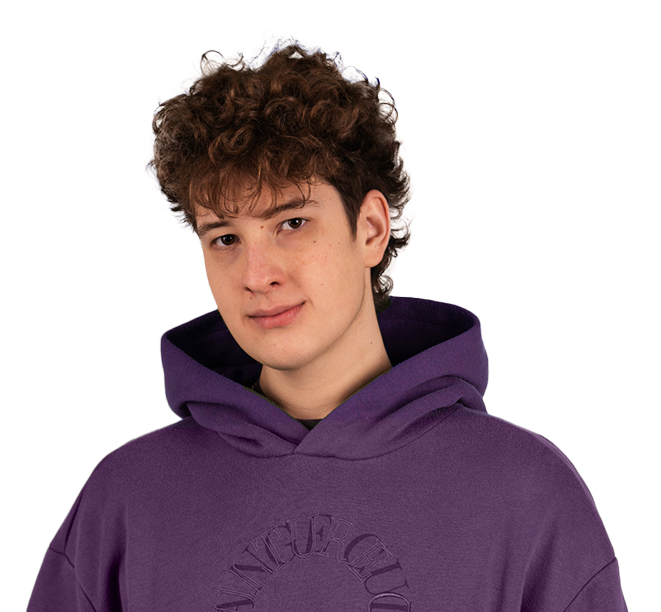
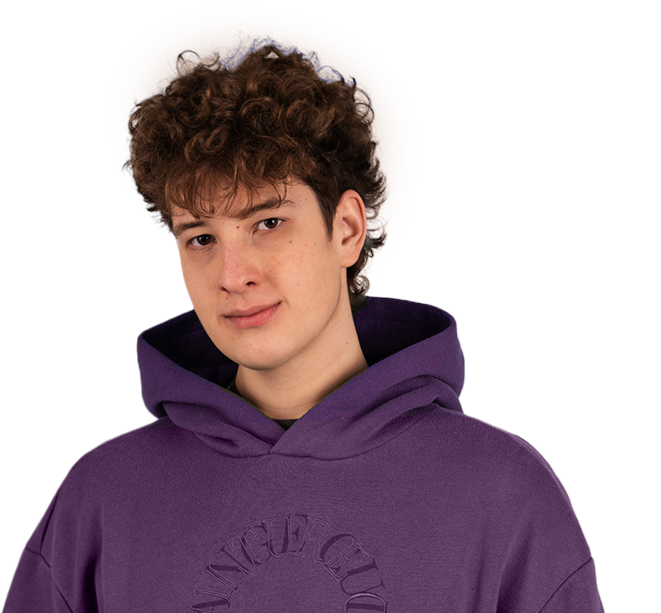
about me improvements and animation

diff --git a/components/about.js b/components/about.js
@@ -6,24 +6,13 @@ const About = () => {
       <div className={styles.left}>
         <div className={styles.heading}>About me</div>
         <div className={styles.text}>
-          Lorem ipsum dolor sit amet, consetetur sadipscing elitr, sed diam
-          nonumy eirmod tempor invidunt ut labore et dolore magna aliquyam erat,
-          sed diam voluptua. At vero eos et accusam et justo duo dolores et ea
-          rebum. Stet clita kasd gubergren, no sea takimata sanctus est Lorem
-          ipsum dolor sit amet. Lorem ipsum dolor sit amet, consetetur
-          sadipscing elitr, sed diam nonumy eirmod tempor invidunt ut labore et
-          dolore magna aliquyam erat, sed diam voluptua. At vero eos et accusam
-          et justo duo dolores et ea rebum. Stet clita kasd gubergren, no sea
-          takimata sanctus est Lorem ipsum dolor sit amet. Lorem ipsum dolor sit
-          amet, consetetur sadipscing elitr, sed diam nonumy eirmod tempor
-          invidunt ut labore et dolore magna aliquyam erat, sed diam voluptua.
-          At vero eos et accusam et justo duo dolores et ea rebum. Stet clita
-          kasd gubergren, no sea takimata sanctus est Lorem ipsum dolor sit
-          amet. Duis autem vel eum iriure dolor in hendrerit in vulputate velit
-          esse molestie consequat, vel illum dolore eu feugiat nulla facilisis
-          at vero eros et accumsan et iusto odio dignissim qui blandit praesent
-          luptatum zzril delenit augue duis dolore te feugait nulla facilisi.
-          Lorem ipsum dolor sit amet,
+          Hello! I'm a 17-year-old student currently studying at IT-HTL Ybbs. I
+          have a passion for turning my ideas into reality through coding. My
+          specialties include using JavaScript for web development, Adobe
+          products for design, and Flutter for mobile development. During my
+          free time, I also enjoy developing Unity games. I'm constantly
+          exploring new technologies and expanding my skill set, and I'm excited
+          to see where my passion for coding takes me in the future.
         </div>
       </div>
       <div className={styles.right}>

diff --git a/components/aboutMeImage.js b/components/aboutMeImage.js
@@ -1,17 +1,70 @@
+import { useEffect, useRef, useState } from "react";
 import styles from "@/styles/AboutMeImage.module.css";
 import Image from "next/image";
 
 const AboutMeImage = () => {
+  const [isVisible, setIsVisible] = useState(false);
+  const ref = useRef(null);
+
+  useEffect(() => {
+    const observer = new IntersectionObserver(
+      ([entry]) => {
+        if (entry.isIntersecting) {
+          setTimeout(() => {
+            setIsVisible(true);
+          }, 500);
+        }
+      },
+      {
+        rootMargin: "0px",
+        threshold: 0.5, // Change this value to adjust when the intersection is detected
+      }
+    );
+
+    if (ref.current) {
+      observer.observe(ref.current);
+    }
+
+    return () => {
+      if (ref.current) {
+        observer.unobserve(ref.current);
+      }
+    };
+  }, []);
+
   return (
     <>
       <div className={styles.main}>
         <Image
           src="/images/about-image-Hannes.png"
-          width="430"
-          height="400"
+          width="330"
+          height="300"
           className={styles.image}
-        ></Image>
-        <div className={styles.imageBackground}></div>
+        />
+        <div className={styles.imageBackground} />
+        <div className={styles.icons}>
+          <Image
+            src="/images/Laptop.png"
+            width="80"
+            height="80"
+            className={`${styles.icon} ${isVisible ? styles.icon0 : ""}`}
+            ref={ref}
+          />
+          <Image
+            src="/images/camera.png"
+            width="80"
+            height="80"
+            className={`${styles.icon} ${isVisible ? styles.icon1 : ""}`}
+            ref={ref}
+          />
+          <Image
+            src="/images/smartphone.png"
+            width="80"
+            height="80"
+            className={`${styles.icon} ${isVisible ? styles.icon2 : ""}`}
+            ref={ref}
+          />
+        </div>
       </div>
     </>
   );

diff --git a/styles/AboutMeImage.module.css b/styles/AboutMeImage.module.css
@@ -1,11 +1,13 @@
 .main {
   position: relative;
-  left: 2vw;
+  margin-left: 1vw;
+  margin-top: 35px;
 }
 .image {
   border-radius: 5px;
   position: relative;
   background-color: #ab81e9;
+  background: radial-gradient(#fff, #ab81e9);
   padding: 0px 35px;
   z-index: 2;
   box-shadow: 0px 0px 18px 5px rgba(0, 0, 0, 0.3);
@@ -17,10 +19,35 @@
   z-index: 1;
   position: absolute;
   background-color: #0c8;
-  width: 500px;
-  height: 400px;
+  width: 400px;
+  height: 300px;
   box-shadow: 0px 0px 18px 5px rgba(0, 0, 0, 0.62);
 }
+.icon {
+  left: 25%;
+  position: absolute;
+  top: 0px;
+  z-index: 0;
+  transition: top 1s, left 1s, tranform 1s;
+}
+.icon0 {
+  position: absolute;
+  top: -50px;
+  left: -15%;
+  transform: rotateZ(-25deg);
+}
+.icon1 {
+  position: absolute;
+  top: -110px;
+  left: 30%;
+}
+.icon2 {
+  position: absolute;
+  top: -50px;
+  left: 75%;
+  transform: rotateZ(25deg);
+}
+
 @media only screen and (max-width: 1159px) {
   .main {
     left: 0vw;
@@ -33,5 +60,15 @@
   .imageBackground {
     width: 415px;
     height: 320px;
+  }
+}
+@keyframes flyin0 {
+  0% {
+    top: 0px;
+    left: 0%;
+  }
+  100% {
+    top: -50px;
+    left: -15%;
   }
 }

diff --git a/styles/flyins.module.css b/styles/flyins.module.css
@@ -15,22 +15,22 @@
 .itemContainer[class$="0"] {
   left: 15%;
   top: 15%;
-  animation: flyin0 1.7s linear, move0 10s infinite 3s;
+  animation: flyin0 1.7s ease-out, move0 10s infinite 1.7s linear;
 }
 .itemContainer[class$="1"] {
   right: 10%;
   top: 55%;
-  animation: flyin1 1s linear, move1 10s infinite 3s;
+  animation: flyin1 1s ease-out, move1 10s infinite 1s linear;
 }
 .itemContainer[class$="2"] {
   left: 10%;
   top: 65%;
-  animation: flyin2 2.2s linear, move2 10s infinite 3s;
+  animation: flyin2 2.2s ease-out, move2 10s infinite 2.2s linear;
 }
 .itemContainer[class$="3"] {
   right: 10%;
   top: 10%;
-  animation: flyin3 3s linear, move3 10s infinite 3s;
+  animation: flyin3 3s ease-out, move3 10s infinite 3s linear;
 }
 @keyframes flyin0 {
   from {
@@ -74,7 +74,7 @@
 }
 @keyframes move0 {
   0% {
-    transform: translate(0, 0);
+    transform: translate(0px, px);
   }
   25% {
     transform: translate(3px, 3px);
@@ -86,7 +86,7 @@
     transform: translate(3px, -3px);
   }
   100% {
-    transform: translate(0, 0);
+    transform: translate(0px, 0px);
   }
 }
 

diff --git a/styles/about.module.css b/styles/about.module.css
@@ -1,5 +1,4 @@
 .main {
-  background-color: #eee;
   overflow: hidden;
   display: flex;
   flex-wrap: wrap;
@@ -9,10 +8,13 @@
   min-height: 80vh;
 }
 .left {
-  margin-left: 4vw;
+  margin-left: 2vw;
+  background-color: #eee;
+  padding: 2vw;
+  border-radius: 20px;
   margin-top: 4vw;
   margin-right: 0;
-  width: 60%;
+  width: 55%;
 }
 .heading {
   font-size: 60px;
@@ -28,6 +30,7 @@
   line-height: 35px;
 }
 .right {
+  position: relative;
   width: 35%;
 }
 @media only screen and (max-width: 1159px) {
@@ -39,5 +42,11 @@
     display: flex;
     justify-content: center;
     width: 100%;
+  }
+}
+@media (max-width: 1400px) {
+  .text {
+    font-size: 20px;
+    line-height: 25px;
   }
 }
